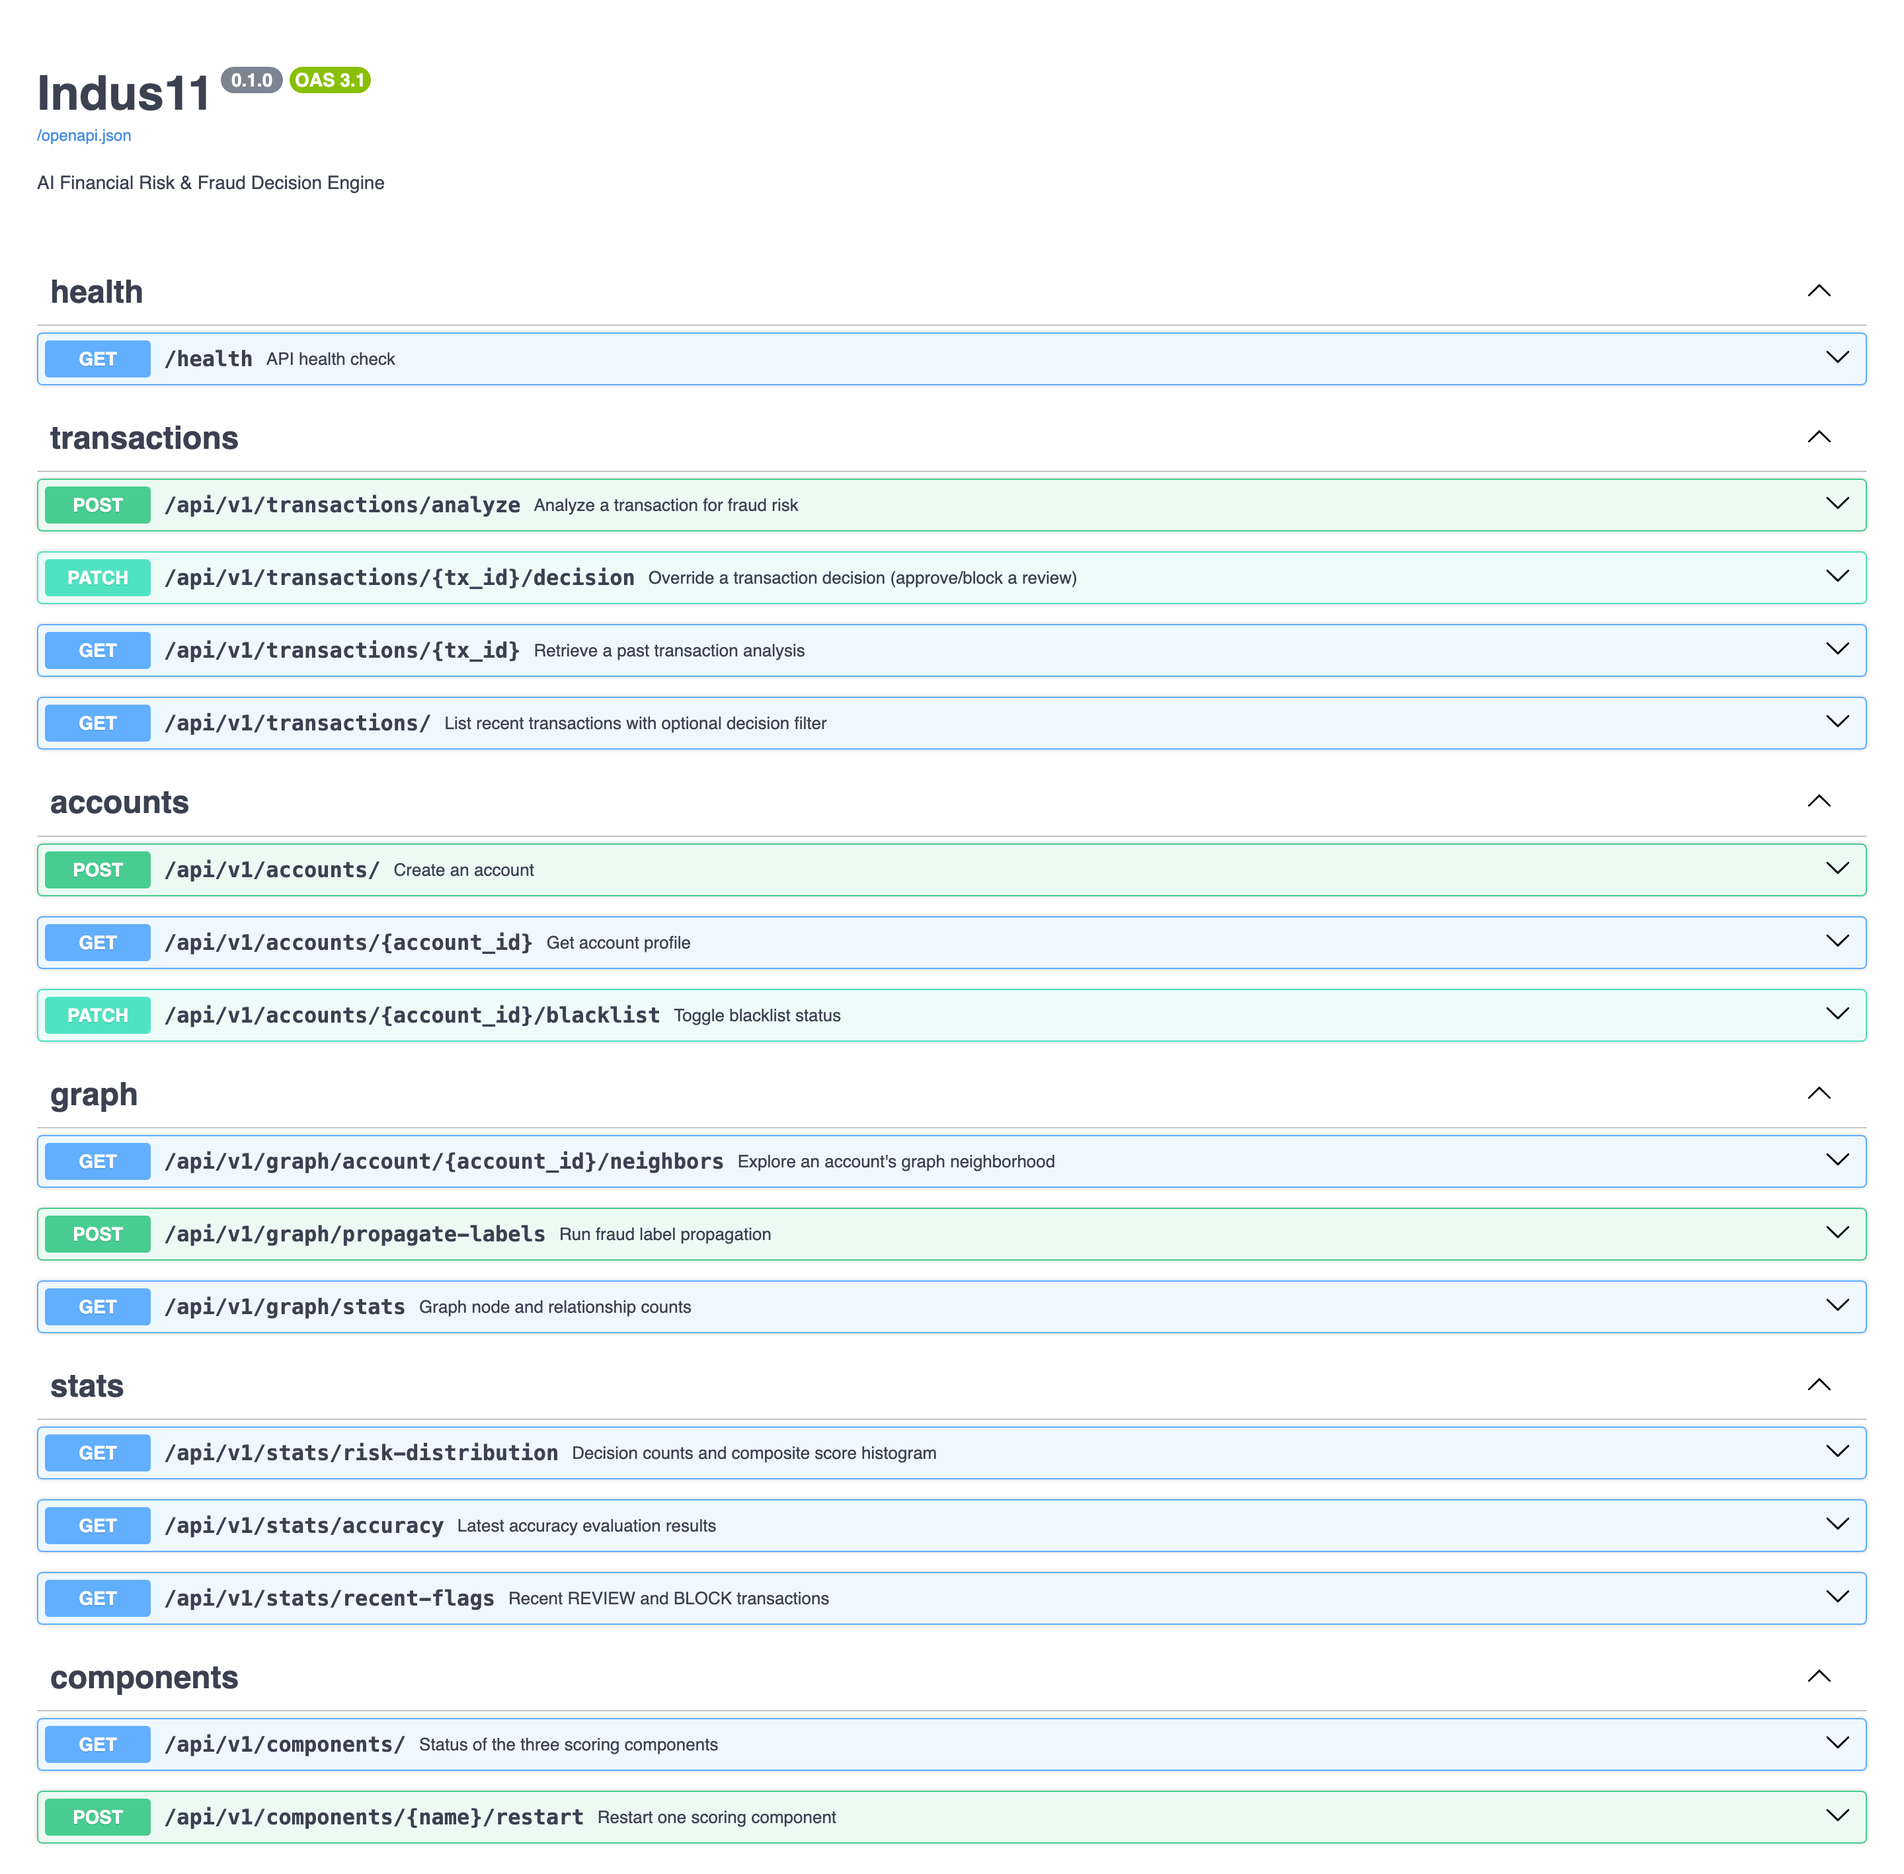
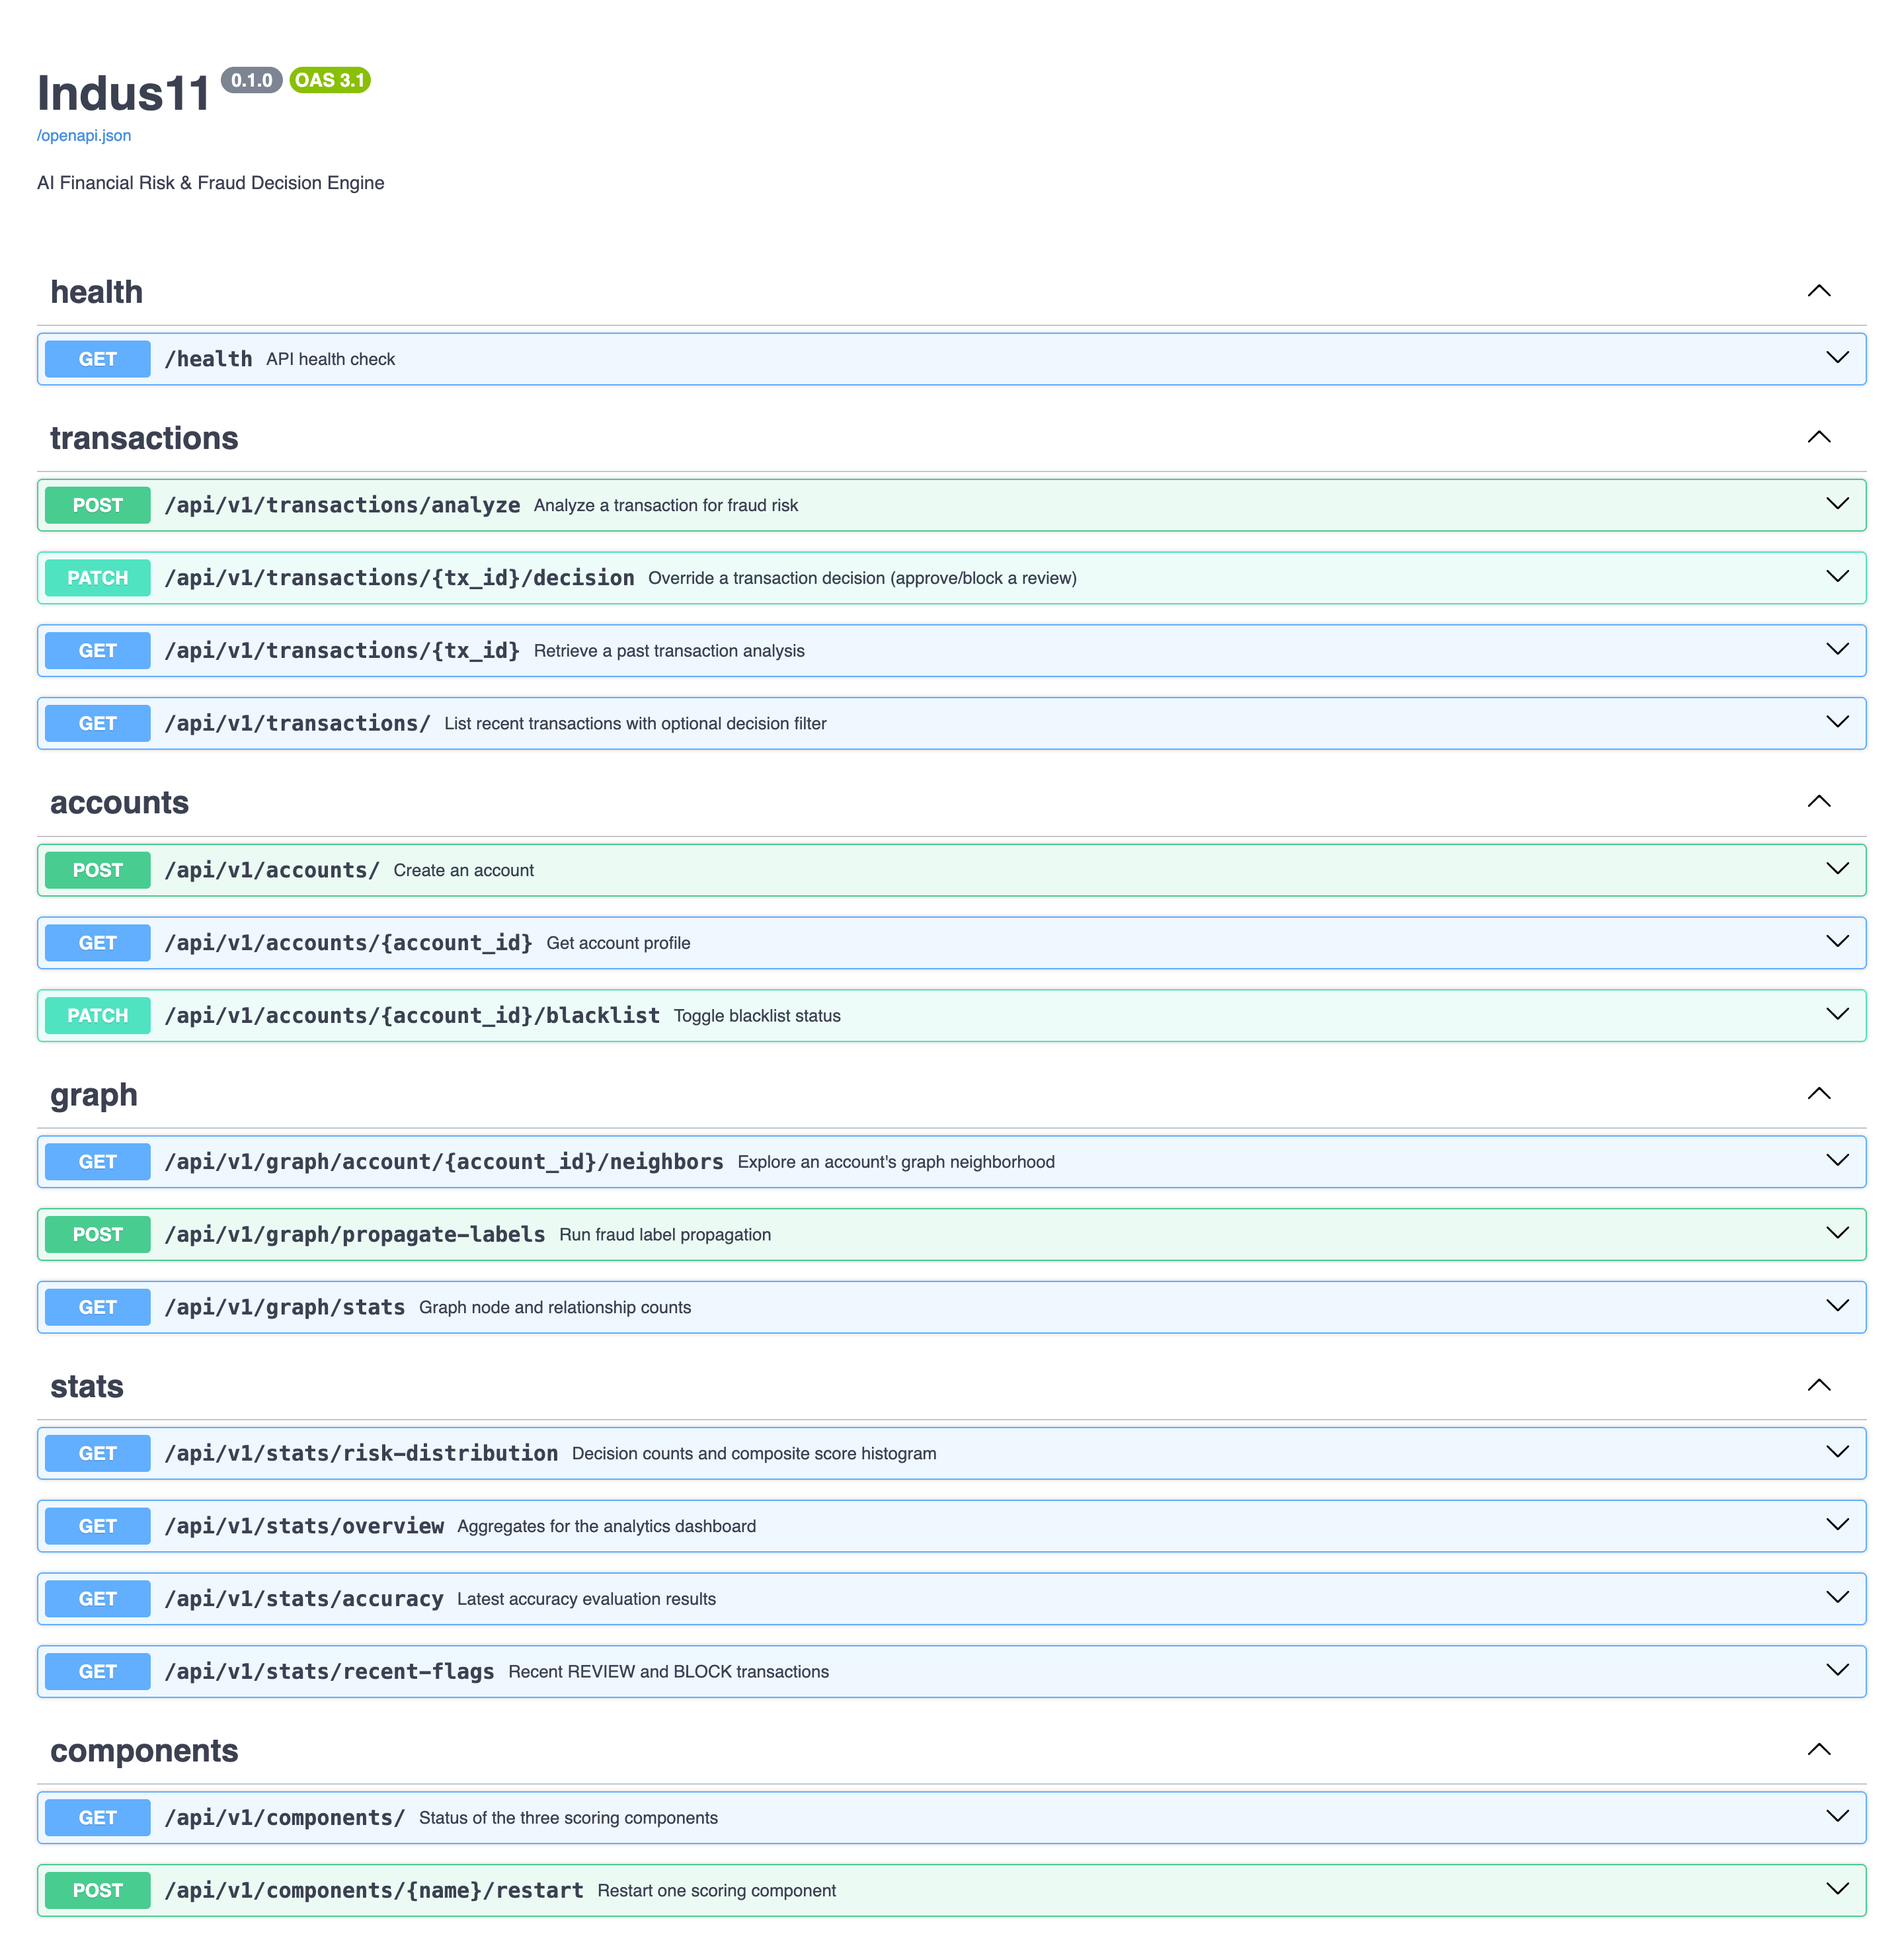
Replace the dashboard and API screenshots in the SRS and report
The three screenshots showed the dashboard before the analytics rebuild
and an API page with 16 routes. They are recaptured from the running
system in the light theme: the overview (key figures, decisions by day,
decision mix, graph counts, category and signal breakdowns), the review
queue with its signal labels, and the API page, now 17 routes with
GET /stats/overview.

The prose beside them described the old page, so report section 4.8,
the queue paragraph and the API caption are rewritten to match, and SRS
FR-22, FR-28 and the Appendix A caption likewise. The test count moves
from 53 to 55 in both documents, and the report's test appendix lists
the two new statistics tests. Both documents keep their page counts
(SRS 49, report 65) with no table split across a page.

diff --git a/docs/build_report.py b/docs/build_report.py
@@ -680,7 +680,7 @@ bullets([
     "time from 260 ms to about 20 ms.",
     "An evaluation harness that replays a labelled dataset through the live API, sweeps the "
     "decision thresholds and reports precision at a realistic fraud prevalence.",
-    "An analyst dashboard and a one-command local stack, with 53 automated tests run in "
+    "An analyst dashboard and a one-command local stack, with 55 automated tests run in "
     "continuous integration.",
 ])
 section("1.8 Report Organization")
@@ -1084,18 +1084,26 @@ code_block("""def _explanation_matches_flags(explanation, all_flags):
         if len(word) >= 4 and word not in GENERIC_FLAG_WORDS
     )""")
 section("4.8 Prototype/User Interface")
-para("The analyst dashboard is a single React page served by Vite (Figure 4.2). The top row "
-     "shows the number of transactions analysed and the approve, review and block split. "
-     "Below it are the decision mix, the composite-score histogram, a form for analysing a "
-     "transaction and the accuracy results of the latest evaluation. The form shows the "
+para("The analyst dashboard is a single React page served by Vite (Figure 4.2), laid out as an "
+     "analytics console with a light and a dark theme. A row of six figures gives the "
+     "transactions scored, the number flagged and blocked, the rupee value flagged, the average "
+     "risk score and the count of layer failures. The charts below it are computed over every "
+     "stored transaction by one aggregation route, GET /api/v1/stats/overview: decisions per "
+     "active day, the decision mix, the Neo4j entity counts, decisions within each merchant "
+     "category, how often each flag fired on flagged transactions, the score distribution, the "
+     "flag rate by amount band, and precision, recall and F1 from the latest evaluation. Chart "
+     "colours were checked for colour-blind separation; green and red failed, so an approval "
+     "is shown in teal. The Analyze transaction button opens a side panel that shows the "
      "rule-and-graph decision immediately, marks the language-model layer as scoring, and "
      "replaces it with the final score and explanation when the background task finishes.")
-figure(SHOT, "Dashboard — decision split, charts, analysis form and accuracy panel")
-para("The flagged-transactions table (Figure 4.3) lists recent REVIEW and BLOCK decisions with "
-     "filters, search and sorting. Selecting a row opens its detail, where a transaction under "
-     "review can be approved or blocked. Colour is used only for decisions, and every decision "
-     "also carries a text label and an icon.")
-figure(os.path.join(ASSETS, "dashboard-flags.png"), "Dashboard — flagged transactions table")
+figure(SHOT, "Dashboard — key figures, decisions by day, decision mix, category and signal breakdowns")
+para("The review queue (Figure 4.3) lists recent REVIEW and BLOCK decisions with filters, "
+     "search and sorting, and shows the signals that fired as labels, with a failed layer "
+     "marked in the row. Selecting a row opens a side panel with the transaction's details, its "
+     "signals grouped by the layer that raised them, the model's explanation and a one-hop "
+     "drawing of the sender's graph neighbourhood; a transaction under review can be approved "
+     "or blocked from there. Every decision carries a text label and an icon as well as a colour.")
+figure(os.path.join(ASSETS, "dashboard-flags.png"), "Dashboard — review queue with triggered signals")
 section("4.9 System Integration")
 para("The layers are integrated in the analyse route. The rule engine and graph analyzer run "
      "under asyncio.gather, so the response waits for the slower of the two rather than their "
@@ -1113,7 +1121,7 @@ para("Two component routes support recovery. One reports whether Redis, Neo4j, C
      "failed layer appears on the dashboard as a highlighted panel with its error and a button "
      "that calls the restart route; the transaction stays in review, and later transactions use "
      "the restarted component.")
-figure(os.path.join(ASSETS, "api-docs.png"), "Interactive API documentation — 16 routes")
+figure(os.path.join(ASSETS, "api-docs.png"), "Interactive API documentation — 17 routes")
 para("For deployment the stack is defined in Docker Compose as five containers, with the "
      "language model on the host (Figure 4.5).")
 figure("08-deployment.png", "Deployment diagram — Docker Compose")
@@ -1439,7 +1447,7 @@ bullets([
     "transactions.",
     "A retried submission returns a conflict response instead of creating a duplicate decision.",
     "Scores are deterministic for identical input.",
-    "53 automated tests, which need no database or network, run on every push.",
+    "55 automated tests, which need no database or network, run on every push.",
 ])
 section("7.7 Deployment Risks")
 table("Deployment risks",
@@ -1617,10 +1625,10 @@ document  Mule fee skimming: funds pass through a chain of accounts with
     code_block(block)
 
 section("Appendix B — Automated Test Suite")
-para("The 53 tests run without a database or network connection (pytest tests/ -q) and are "
+para("The 55 tests run without a database or network connection (pytest tests/ -q) and are "
      "grouped below by what they protect.")
 for heading, items in [
-    ("tests/test_fraud.py — scoring layers, decision engine, failures and security (32 tests)", [
+    ("tests/test_fraud.py — scoring layers, decision engine, failures and security (34 tests)", [
         "Rule engine: blacklist returns the maximum score; amount-anomaly and velocity flags; a "
         "clean transaction scores zero.",
         "Layer failures: Redis down marks the rule engine as failed and Neo4j down the graph "
@@ -1631,6 +1639,8 @@ for heading, items in [
         "Component restart: an unknown component is rejected; restart resets the client and "
         "reports the dependency's status.",
         "API key: a wrong or missing key is rejected; the configured key is accepted.",
+        "Dashboard statistics: flag codes are read from an explanation whose details contain "
+        "full stops; per-decision counts are pivoted with their totals.",
         "RAG pipeline: the prompt carries the rule and graph flags, renders “(none)” when "
         "there are none, and returns a score and explanation on success and on failure.",
         "Decision engine: the approve, review and block bands; the composite cap at 100; the "

diff --git a/docs/build_srs.py b/docs/build_srs.py
@@ -671,7 +671,7 @@ table("Functional requirements — accounts, graph, reporting and operations",
        ["FR-19", "Return the graph neighbourhood of an account to a depth of one to three hops.", "routes/graph"],
        ["FR-20", "Propagate fraud labels to accounts within two hops and assign a cluster identifier.", "services/graph_analyzer"],
        ["FR-21", "Report graph statistics for accounts, devices, addresses, transactions and labels.", "routes/graph"],
-       ["FR-22", "Report dashboard statistics: decision counts and score histogram, the most recent review/block transactions, and the latest accuracy results.", "routes/stats"],
+       ["FR-22", "Report dashboard statistics: decision counts and score histogram; aggregates over all transactions by day, merchant category, amount band and triggered flag; the most recent review/block transactions; and the latest accuracy results.", "routes/stats"],
        ["FR-23", "Replay a labelled dataset and report precision, recall, F1, a confusion matrix and ring detection.", "scripts/evaluate"],
        ["FR-24", "Derive decisions again across candidate thresholds and report no block threshold when none is reachable.", "scripts/evaluate"],
        ["FR-25", "Limit each client to 120 requests per minute overall and 30 on the analysis endpoint.", "core/rate_limit"],
@@ -680,7 +680,7 @@ table("Functional requirements — accounts, graph, reporting and operations",
       widths=[0.5, 4.2, 1.3], size=9)
 table("Functional requirements — dashboard, security and resilience",
       ["ID", "Requirement", "Module"],
-      [["FR-28", "Display metrics, decision mix, score distribution, accuracy and flagged transactions with detail and override.", "dashboard"],
+      [["FR-28", "Display key figures, decisions by day, decision mix, graph entity counts, category and signal breakdowns, score distribution, flag rate by amount, accuracy, and the review queue with detail and override, in a light or dark theme.", "dashboard"],
        ["FR-29", "Require a shared key on the routes that override a decision, change blacklist status, propagate fraud labels, or report or restart a scoring component.", "core/security"],
        ["FR-30", "Restrict the graph layer's circular-flow detection to hops occurring within a configured window and in chronological order.", "services/graph_analyzer"],
        ["FR-31", "Withhold a written explanation that does not reference any triggered signal, and show the signal list alone in its place.", "services/decision_engine"],
@@ -741,7 +741,7 @@ table("Software quality attributes", ["Attribute", "How it is achieved"],
                        "submission returns a defined conflict response."],
        ["Maintainability", "Each layer is a single function with one input and one "
                            "output type, so a layer can be replaced independently."],
-       ["Testability", "Fifty-three automated tests run with no database or network."],
+       ["Testability", "Fifty-five automated tests run with no database or network."],
        ["Portability", "The entire stack is defined in one container composition file."],
        ["Usability", "Every decision is accompanied by a written explanation."],
        ["Accuracy", f"Precision {FLAGGED['precision']:.3f}, recall {FLAGGED['recall']:.3f}, "
@@ -1132,9 +1132,9 @@ section("Appendix A — Application Screen")
 if os.path.exists(SHOT):
     doc.add_picture(SHOT, width=Inches(USABLE_W))
     doc.paragraphs[-1].alignment = WD_ALIGN_PARAGRAPH.CENTER
-    para("Figure A.1: Analyst dashboard showing the decision split, decision mix, score "
-         "distribution, analysis form and accuracy results, captured from the running "
-         "system on 11 September 2026", size=11, bold=True,
+    para("Figure A.1: Analyst dashboard showing the key figures, decisions by day, decision "
+         "mix, graph entity counts and the category and signal breakdowns, captured from the "
+         "running system on 14 September 2026", size=11, bold=True,
          align=WD_ALIGN_PARAGRAPH.CENTER, after=10, spacing=LINE)
 section("Appendix B — Sample Database Records")
 para("The records below were read from the running system on 11 September 2026, one "
